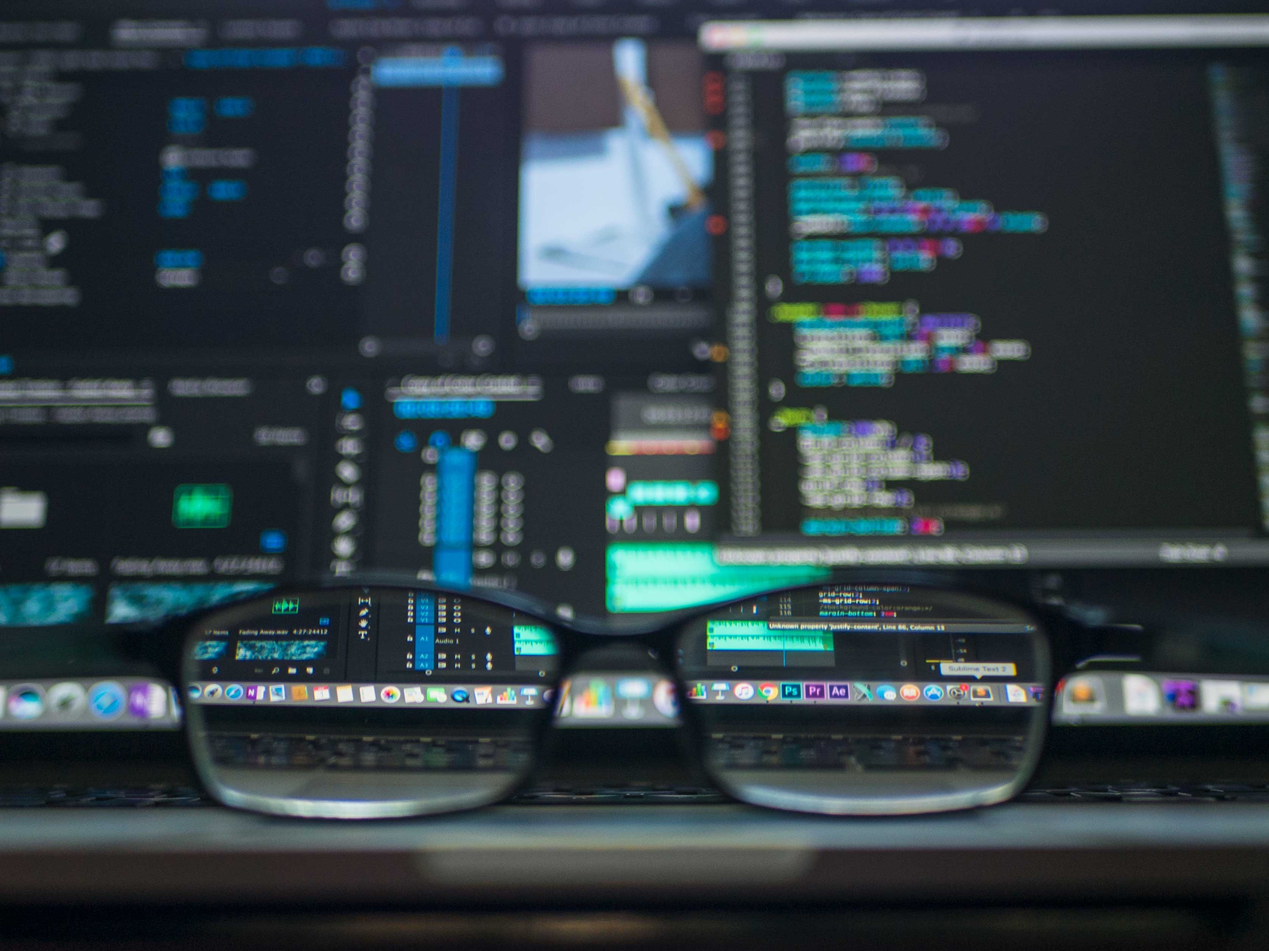
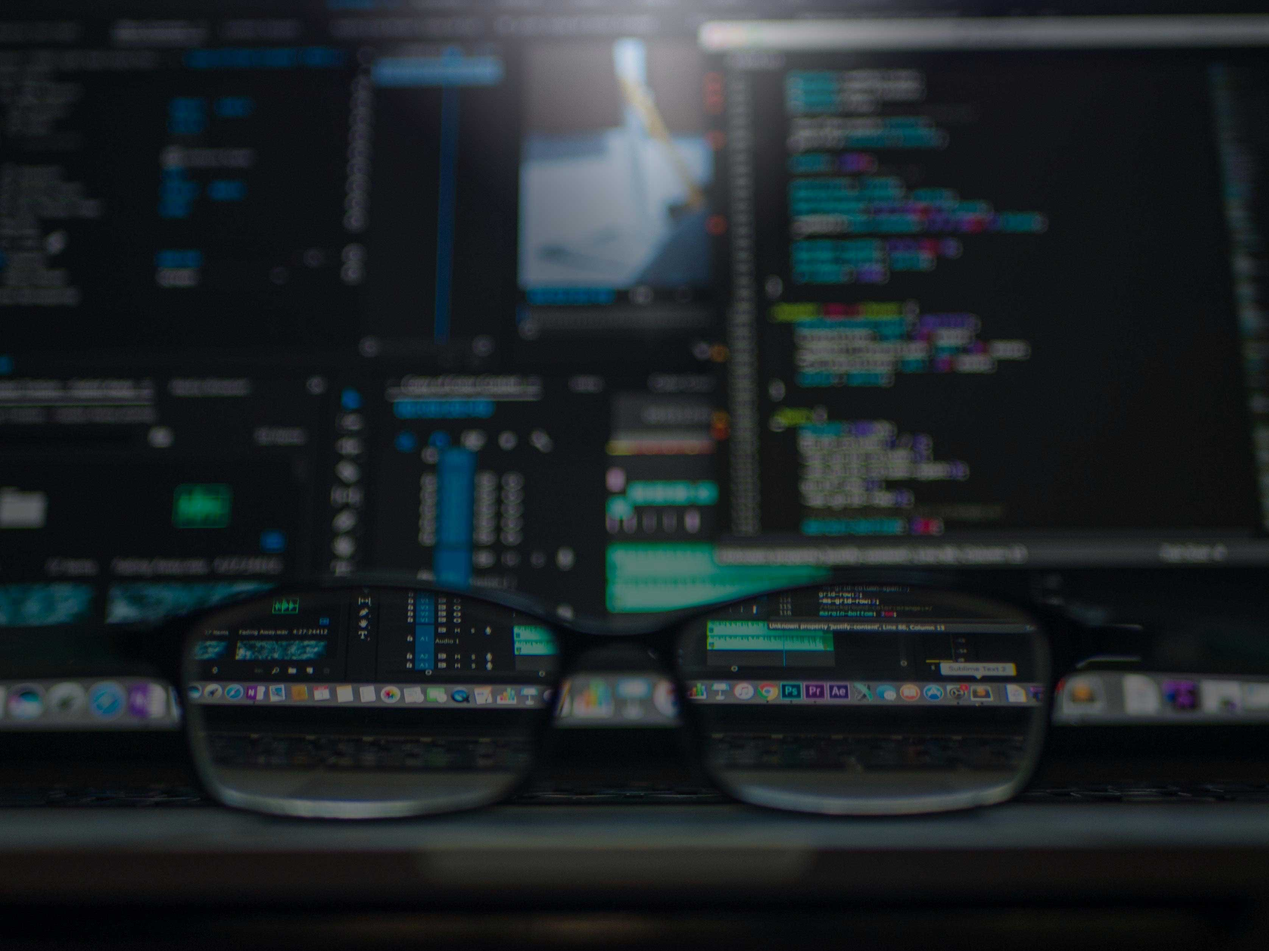
Billede justeret, fonte, links

diff --git a/index.html b/index.html
@@ -2,7 +2,7 @@
 <html>
 <head>
 	<title>Henrik Christiansen - Softwareudvikler / Programmør</title>
-	<link href="https://fonts.googleapis.com/css?family=Lato:400,700" rel="stylesheet">
+	<link href="https://fonts.googleapis.com/css?family=Lato:400,700|Lovers+Quarrel" rel="stylesheet">
 	<link rel="stylesheet" type="text/css" href="https://maxcdn.bootstrapcdn.com/bootstrap/3.3.7/css/bootstrap.min.css">
 
 	<link rel="stylesheet" type="text/css" href="style.css">
@@ -18,7 +18,7 @@
 	        <span class="icon-bar"></span>
 	        <span class="icon-bar"></span>
 	      </button>
-	      <a class="navbar-brand" href="#">Henrik Christiansen</a>
+	      <a id="brand" class="navbar-brand" href="#">Henrik Christiansen</a>
 	    </div>
 
 	    <!-- Collect the nav links, forms, and other content for toggling -->
@@ -41,7 +41,7 @@
 					<h3>Jeg er Softwareudvikler / Programmør</h3>
 					<h3>Jeg søger job</h3>
 					<hr>
-					<h4>Se eksempler på projekter jeg har lavet</h4>
+					<a href="http://zellamsee.henpia.dk" class="btn btn-default btn-lg">Se eksempler på projekter jeg har lavet</a>
 				</div>
 			</div>
 			

diff --git a/style.css b/style.css
@@ -12,12 +12,18 @@ html {
 	height: 100%;
 }
 
+#brand {
+	font-family: 'Lovers Quarrel', cursive;
+	font-size: 4em;
+	padding-top: 20px;
+}
+
 .content {
 	text-align: center;
 	padding-top: 20%;
-	text-shadow: 0px 4px 3px rgba(0, 0, 0, 0.4),
-				 0px 8px 13px rgba(0, 0, 0, 0.1),
-				 0px 18px 23px rgba(0, 0, 0, 0.1);
+	text-shadow: 0px 4px 3px rgba(200, 200, 200, 0.4),
+				 0px 8px 13px rgba(200, 200, 200, 0.1),
+				 0px 18px 23px rgba(200, 200, 200, 0.1);
 }
 
 h1 {
